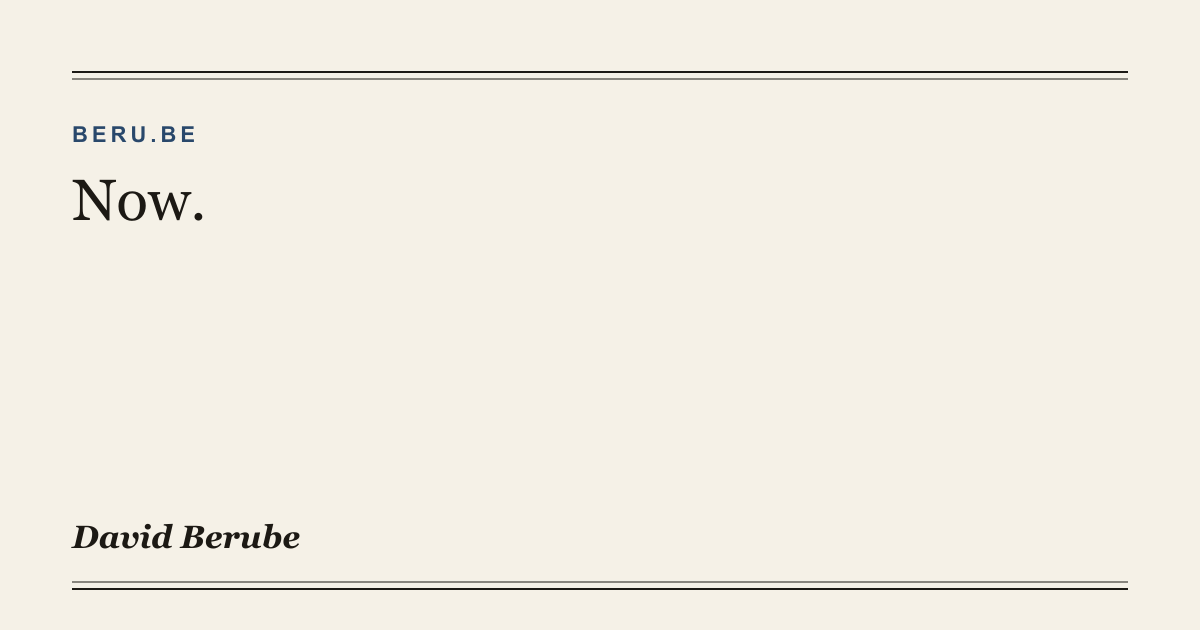
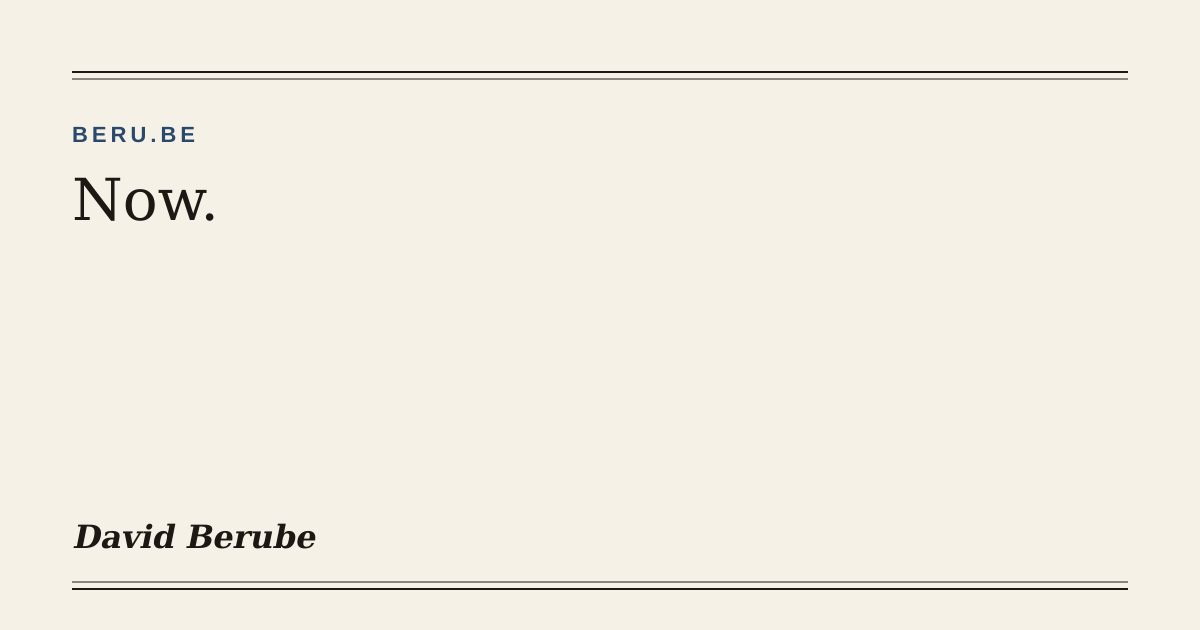
content(now): add September 2026 update

Changed region(s): [[0.0617, 0.8143, 0.2775, 0.8746], [0.0617, 0.2714, 0.185, 0.3619]]

diff --git a/src/content/now/current.md b/src/content/now/current.md
@@ -1,16 +1,15 @@
 ---
-updated: 2026-08-13
+updated: 2026-09-20
 ---
 
-**Chasing dropping domains.** I’m building a system that spots good domains right before they expire. It parses the daily pending-delete lists, filters out the junk, and surfaces the few actually worth grabbing. The domain name world is a weird little corner of the internet that I've been playing in ever since I bought my first domain back in 1997!
+**A year of eating better.** It’s been about a year since I made a real effort to change how I eat, and I’ve lost more than 55 pounds. I’m now well within a healthy BMI and feel great. Along the way I cobbled together my own system using a few different apps and AI to help me make better choices and track what I was eating. What gets measured gets managed, and having that feedback along the way made a big difference for me.
 
-**Running my own domain parking system.** I got tired of ugly parked pages, so I built my own setup. Custom nameservers, one clean for-sale page, no per-domain config. Point a domain at my nameservers and it just works. It’s handling hundreds of domains in my portfolio right now.
+This month I started turning that workflow into [MacroMigo](/builds/macromigo/), an app that brings it all into one simple experience. The goal is to make it easier to understand what you’re eating, make better choices, and keep track of where you stand without making the whole thing feel like work. Basically, I’m building the app I wish I had a year ago.
 
-**Still working on [Turn Left](/builds/turnleft/).** My top-down NASCAR-style browser game. Chunky pixels, instant play, no app store. Every week it gets a little tighter.
+Over the last month, I’ve transitioned away from relying on Hermes and OpenClaw agents for most of my development work and moved primarily to Claude Code running on dedicated hardware. I have dedicated servers I can access remotely from my phone, so I can build, test, and deploy from pretty much anywhere at any time. So far it’s a much simpler setup and it’s been really effective for how I like to work. Things are changing so fast though, so we’ll see where this goes.
 
+My younger brother got married this month. He’s my only brother, so it was a pretty big family milestone. It was a great night. I’m super excited and happy for him and my new sister-in-law!
 
-**Continuing to build my agentic AI team.** This is what makes everything above possible. I have AI agents doing real engineering work. I write the specs, they ship the code, and I keep growing what the team can take on. The newest additions are [Parker](/agents/parker/), a product manager agent, and [Reed](/agents/reed/), who handles copywriting and social media. They’re not as hands-off as my engineering agents yet. Still a work in progress, but that’s the fun part.
+Otherwise, I’m continuing to explore ideas and really enjoying this moment in time as a builder.
 
-**Cape Cod.** Spent a few days in Chatham and Yarmouth with my two daughters. Beach, sea food, shopping, ice cream, no agenda. Best part of the month.
-
-![Me and my two daughters on a pier in Chatham, Cape Cod, with boats out on the water behind us.](../../assets/photos/cape-cod-2026.png)
+![Me and my daughters at my younger brother's wedding.](../../assets/photos/wedding-2026.png)

diff --git a/src/content/now/archive/2026-08.md b/src/content/now/archive/2026-08.md
@@ -1,0 +1,16 @@
+---
+updated: 2026-08-13
+---
+
+**Chasing dropping domains.** I’m building a system that spots good domains right before they expire. It parses the daily pending-delete lists, filters out the junk, and surfaces the few actually worth grabbing. The domain name world is a weird little corner of the internet that I've been playing in ever since I bought my first domain back in 1997!
+
+**Running my own domain parking system.** I got tired of ugly parked pages, so I built my own setup. Custom nameservers, one clean for-sale page, no per-domain config. Point a domain at my nameservers and it just works. It’s handling hundreds of domains in my portfolio right now.
+
+**Still working on [Turn Left](/builds/turnleft/).** My top-down NASCAR-style browser game. Chunky pixels, instant play, no app store. Every week it gets a little tighter.
+
+
+**Continuing to build my agentic AI team.** This is what makes everything above possible. I have AI agents doing real engineering work. I write the specs, they ship the code, and I keep growing what the team can take on. The newest additions are [Parker](/agents/parker/), a product manager agent, and [Reed](/agents/reed/), who handles copywriting and social media. They’re not as hands-off as my engineering agents yet. Still a work in progress, but that’s the fun part.
+
+**Cape Cod.** Spent a few days in Chatham and Yarmouth with my two daughters. Beach, sea food, shopping, ice cream, no agenda. Best part of the month.
+
+![Me and my two daughters on a pier in Chatham, Cape Cod, with boats out on the water behind us.](../../../assets/photos/cape-cod-2026.png)
